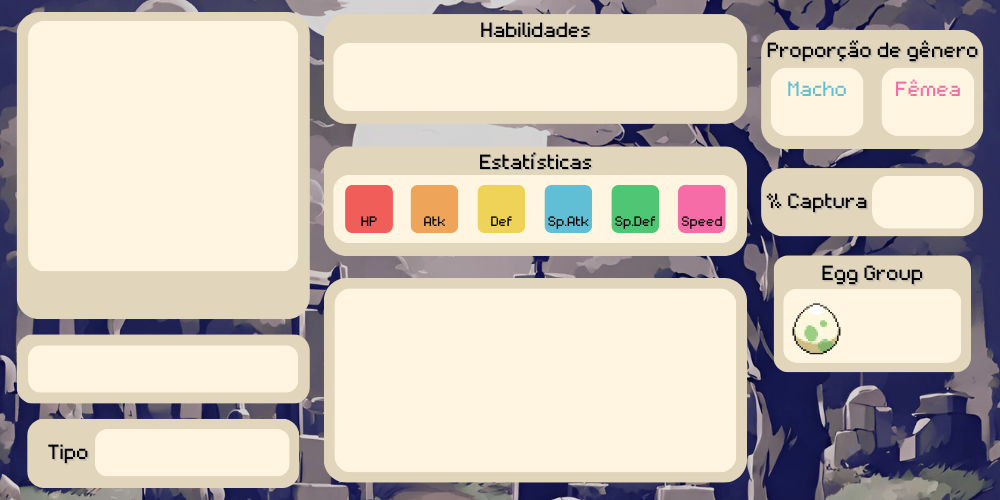
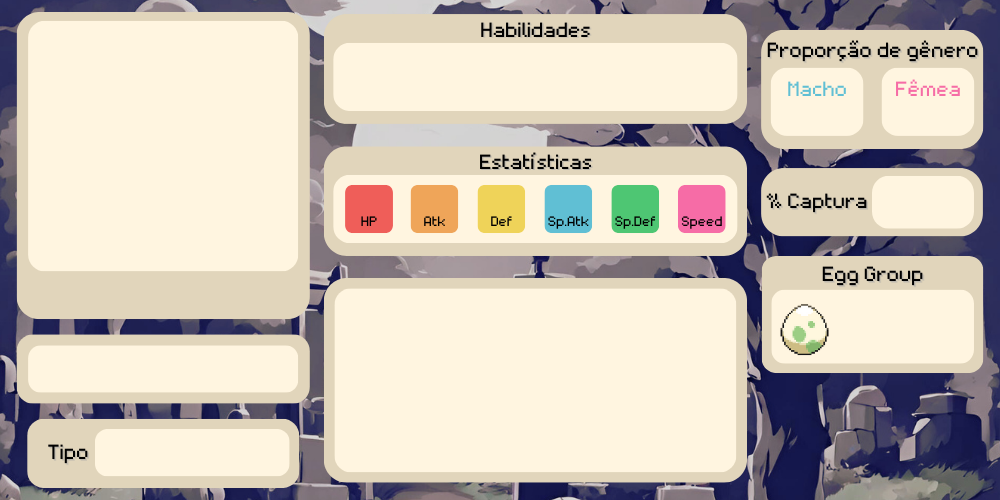
aa

Changed region(s): [[0.744, 0.51, 0.93, 0.75], [0.93, 0.51, 0.992, 0.75]]

diff --git a/NowComesGtk/Screens/PokemonScreen.cs b/NowComesGtk/Screens/PokemonScreen.cs
@@ -90,6 +90,7 @@ namespace NowComesGtk.Screens
                 {
                     Task.Delay(100).Wait();
                 }
+
                 Image Background = new Image($"Images/pokemon_homescreen/{_pokemon.Types[0].Type.Name}.png");
 
                 _fix.Put(Background, 0, 0);
@@ -114,8 +115,6 @@ namespace NowComesGtk.Screens
                 lblPokemonName.TooltipMarkup = $"<span foreground='white' font_desc='Pixeloid Mono Regular 12'>{_pokemonFlavorText}</span>";
                 _fix.Put(lblPokemonName, 40, 357);
 
-                _fix.Put(_imagePokemonTypeSecondary, 188, 433);
-
                 _pokemonTypeOne = new Image($"Images/pokemon_types/{_pokemon.Types[0].Type.Name}.png");
                 _damageRelations = GetTypeDamageRelation(_pokemon.Types[0].Type.Name);
                 _pokemonTypeOne.TooltipMarkup = $"<span foreground='white' font_desc='Pixeloid Mono Regular 12'>{_damageRelations}</span>";
@@ -127,6 +126,8 @@ namespace NowComesGtk.Screens
                     _damageRelationsSecondary = GetTypeDamageRelation(_pokemon.Types[1].Type.Name);
                     _imagePokemonTypeSecondary.TooltipMarkup = $"<span foreground='white' font_desc='Pixeloid Mono Regular 12'>{_damageRelationsSecondary}</span>";
                 }
+
+                _fix.Put(_imagePokemonTypeSecondary, 188, 433);
 
                 lblPokemonAbilityOne.Text = _pokemonAbilityOneUpper;
                 _fix.Put(lblPokemonAbilityOne, 345, 50);
@@ -160,7 +161,7 @@ namespace NowComesGtk.Screens
                 lblPokemonCatchRate = new Label(_pokemonCatchRate);
                 _fix.Put(lblPokemonCatchRate, 897, 192);
                 lblPokemonEggGroup = new Label(_pokemonEggGroup);
-                _fix.Put(lblPokemonEggGroup, 840, 295);
+                _fix.Put(lblPokemonEggGroup, 830, 295);
                 lblPokemonEggGroup.SetAlignment(0.5f, 0.5f);
 
                 lblPokemonHP.Text = _pokemonHPFormatted;
@@ -317,7 +318,7 @@ namespace NowComesGtk.Screens
                             }
                             else if (i.Trigger.Name == "trade")
                             {
-                                _forms.AppendValues(evo.Species.Name, i.Trigger.Name);
+                                _forms.AppendValues($"{evo.Species.Name}", $"Metodo de Evolução: {i.Trigger.Name}");
                             }
                             else if (i.Trigger.Name == "use-item")
                             {
@@ -334,7 +335,18 @@ namespace NowComesGtk.Screens
                         {
                             if (i != null)
                             {
-                                _forms.AppendValues($"{evo.Species.Name}", $"Metodo de Evolução: {i.Trigger.Name} Level Minimo: {i.MinLevel}");
+                                if (i.Trigger.Name == "level-up")
+                                {
+                                    _forms.AppendValues($"{evo.Species.Name}", $"Metodo de Evolução: {i.Trigger.Name} Level Minimo: {i.MinLevel}");
+                                }
+                                else if (i.Trigger.Name == "trade")
+                                {
+                                    _forms.AppendValues($"{evo.Species.Name}", $"Metodo de Evolução: {i.Trigger.Name}");
+                                }
+                                else if (i.Trigger.Name == "use-item")
+                                {
+                                    _forms.AppendValues($"{evo.Species.Name}", $"Metodo de Evolução: {i.Trigger.Name} Item Usado: {i.Item.Name}");
+                                }
                             }
                         }
                     }

diff --git a/NowComesGtk/Screens/PoketrainerMainScreen.cs b/NowComesGtk/Screens/PoketrainerMainScreen.cs
@@ -158,19 +158,6 @@ namespace NowComesGtk.Screens
             btnGitHub.Clicked += GitHub_Open;
             _fix.Put(btnGitHub, 735, 435);
 
-
-            Button BtnTest = new ButtonGenerator("Teste", 100, 50);
-            BtnTest.Image = new Image("Images/buttons/btnTeste.png");
-            BtnTest.Clicked += btnPokemonTest;
-            _fix.Put(BtnTest, 640, 300);
-            Button BtnTestLegendary = new ButtonGenerator("Teste", 100, 50);
-            BtnTestLegendary.Image = new Image("Images/buttons/btnTeste.png");
-            BtnTestLegendary.Clicked += btnPokemonTestLegendary;
-            _fix.Put(BtnTestLegendary, 640, 360);
-            //Button BtnTestMythical = new ButtonGenerator("Teste", 100, 50);
-            //BtnTestMythical.Image = new Image("Images/buttons/btnTeste.png");
-            //BtnTestMythical.Clicked += btnPokemonTestMythical;
-            //_fix.Put(BtnTestMythical, 640, 420);
             DeleteEvent += delegate { Gtk.Application.Quit(); };
 
             Add(_fix);
@@ -185,23 +172,6 @@ namespace NowComesGtk.Screens
         private void Dialog_Start(object sender, EventArgs e)
         {
             _separetedMethods.DialogWithXamuca();
-        }
-
-
-        private async void btnPokemonTest(object sender, EventArgs e)
-        {
-            //Pokemon pokemon = await _apiRequest.GetPokemonAsync("scizor");
-            Pokemon poke = await _apiRequest.GetPokemon("mudkip");
-
-            PokemonScreen pokemonScreen = new(poke);
-            pokemonScreen.Show();
-        }
-
-        private async void btnPokemonTestLegendary(object sender, EventArgs e)
-        {
-            Pokemon pokemon = await _apiRequest.GetPokemon("charizard");
-            PokemonScreen pokemonScreen = new(pokemon);
-            pokemonScreen.Show();
         }
 
         private void BtnTypePokedexScreen(object sender, EventArgs e)
